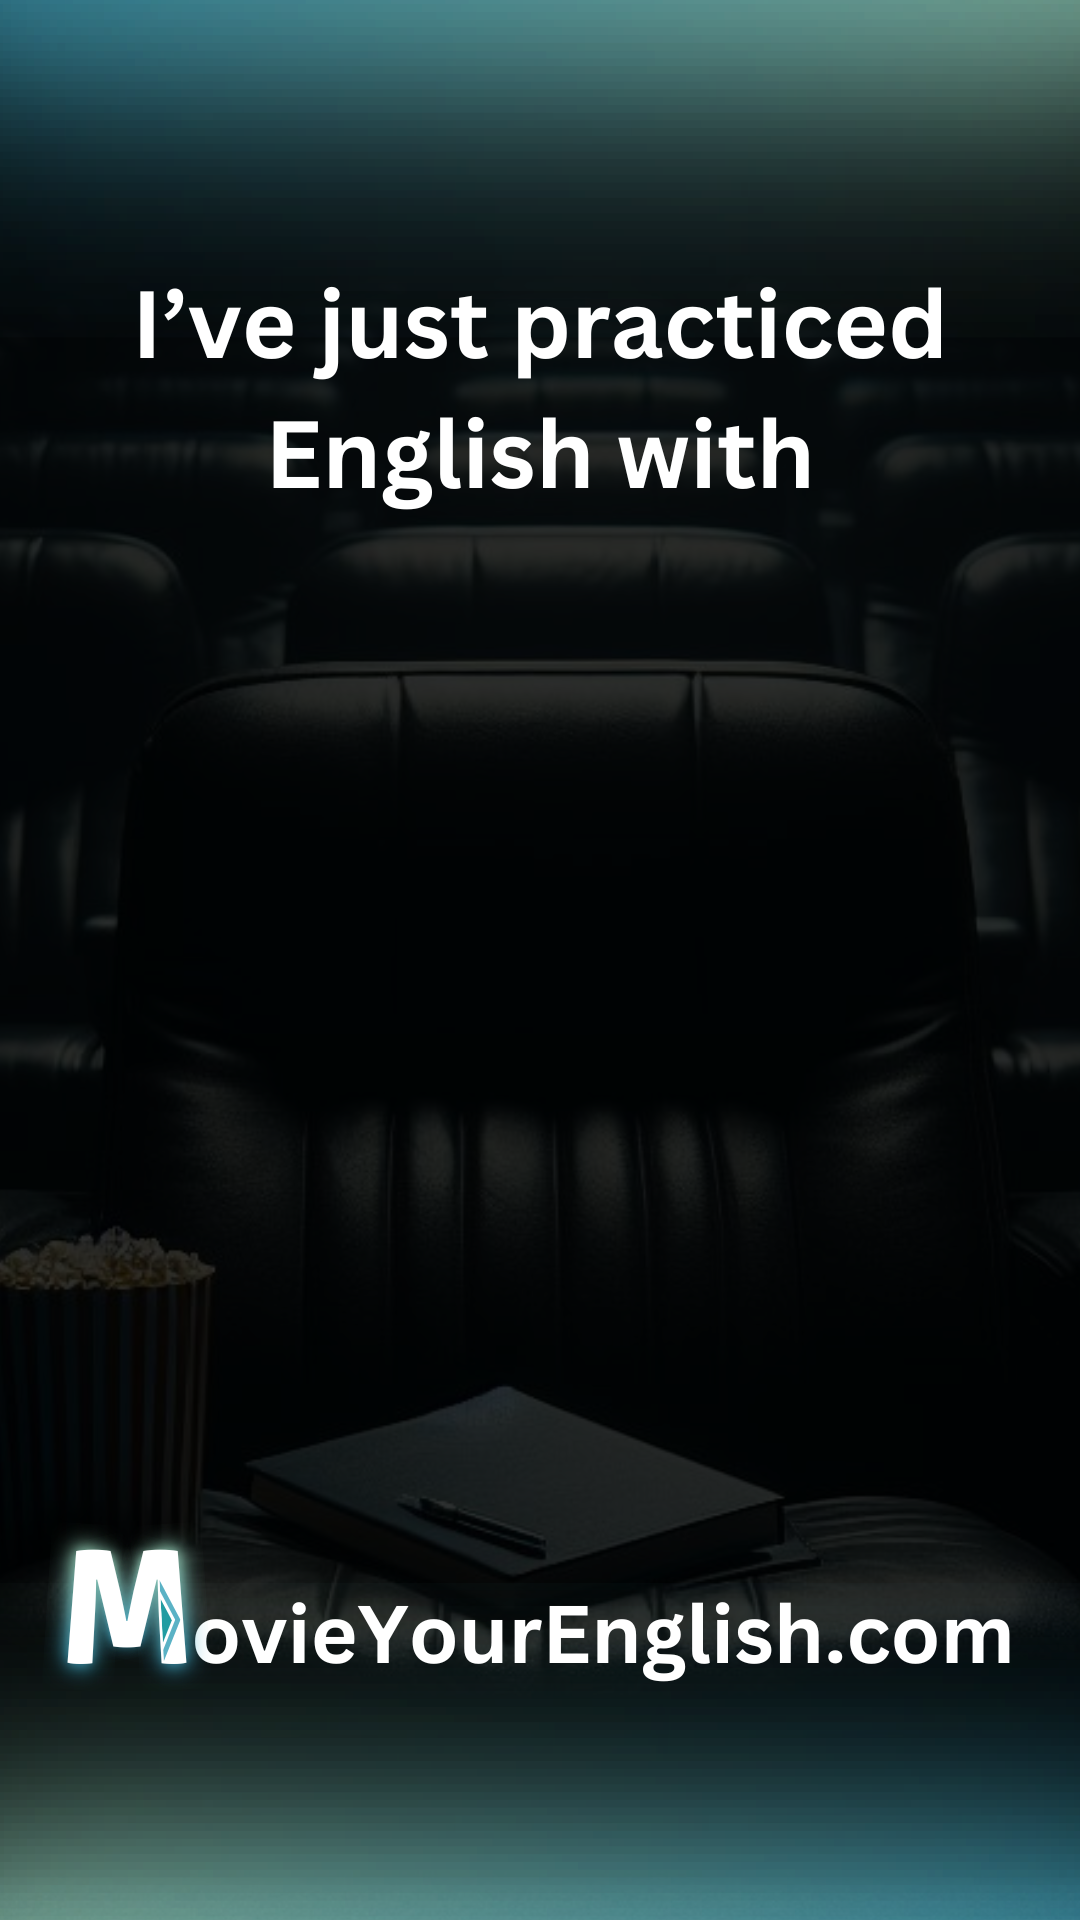
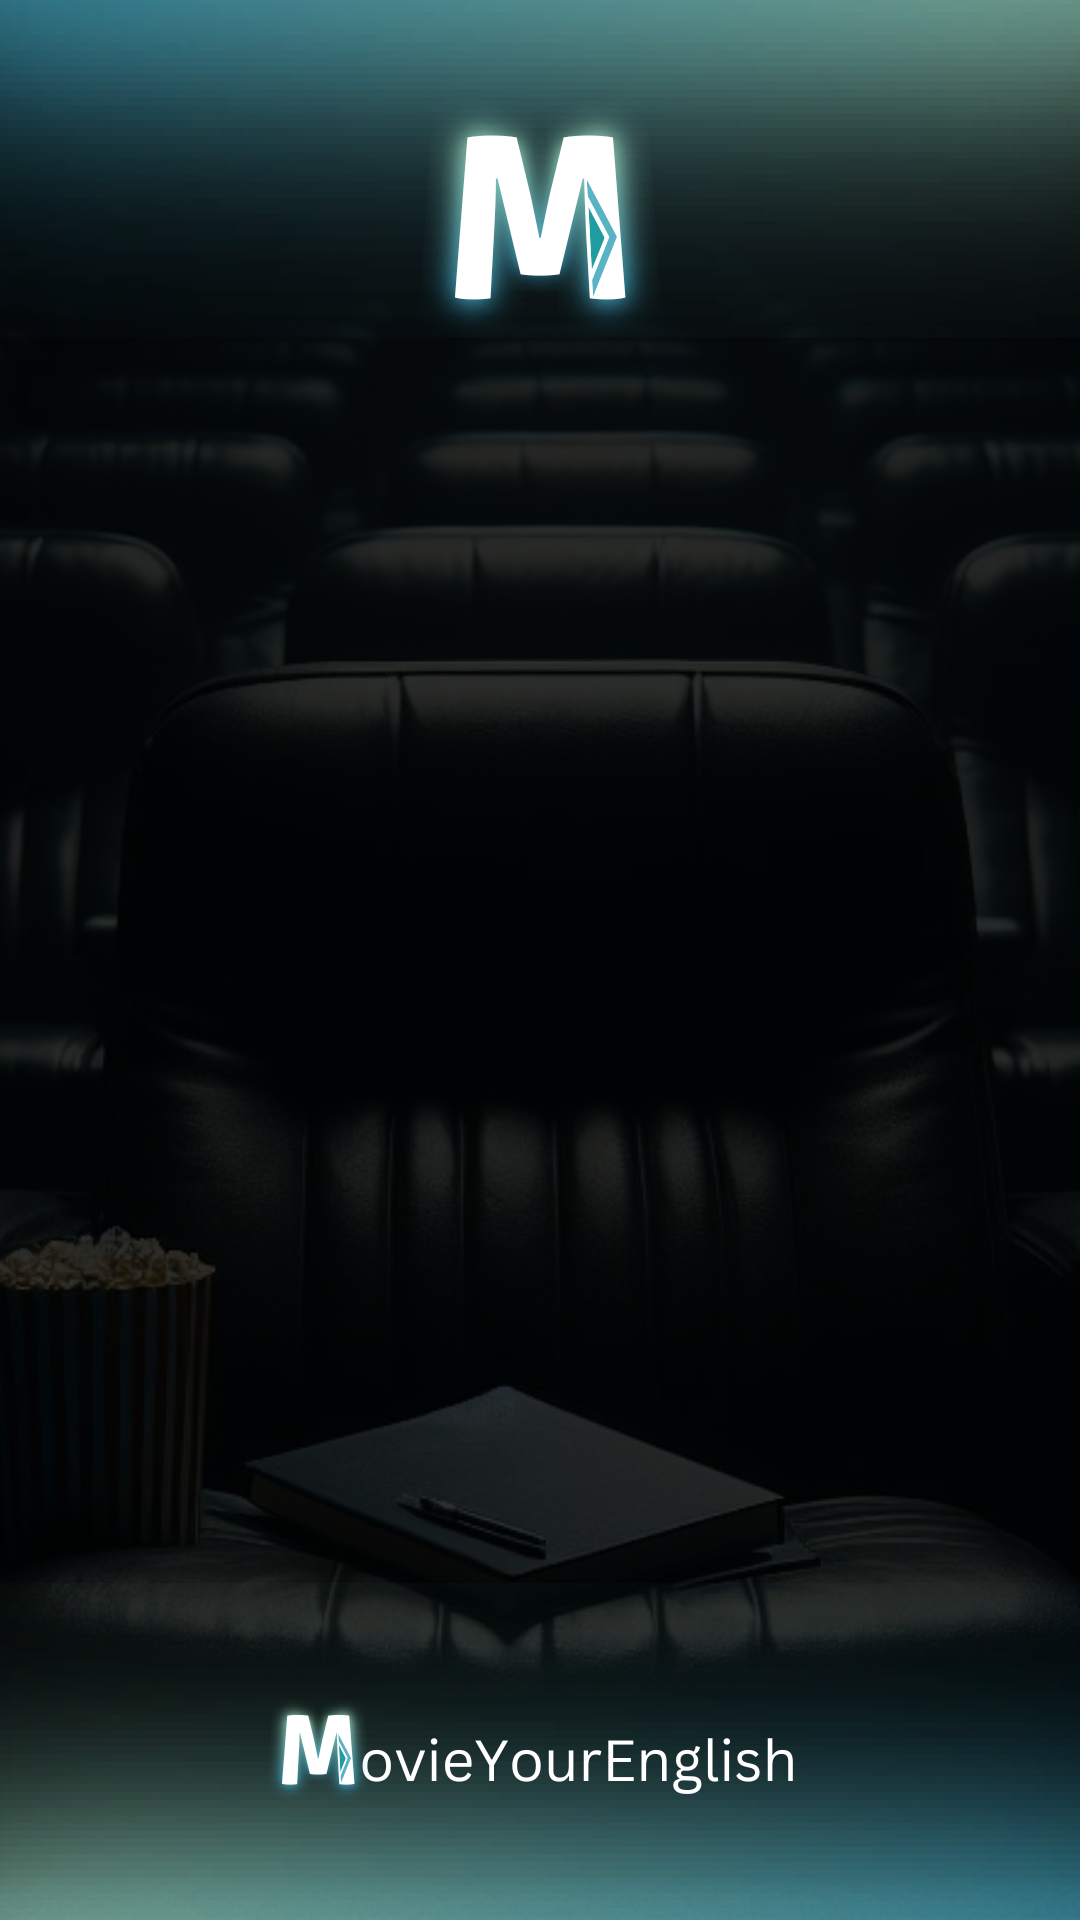
Update centered Instagram Story template

Changed region(s): [[0.0306, 0.7812, 0.9472, 0.9375], [0.1222, 0.0625, 0.8861, 0.2812], [0.5806, 0.2188, 0.7639, 0.2812]]

diff --git a/project-hail-mary/lesson.js b/project-hail-mary/lesson.js
@@ -297,10 +297,17 @@ document.querySelector("#share-story").addEventListener("click", async () => {
     const progress = getProgress();
     context.textAlign = "center";
     context.textBaseline = "middle";
-    const posterWidth = 390;
-    const posterHeight = 585;
+    context.font = "900 52px Arial, sans-serif";
+    context.fillStyle = "#ffffff";
+    context.shadowColor = "#000000";
+    context.shadowBlur = 15;
+    context.shadowOffsetY = 5;
+    drawCenteredText(context, "I’VE JUST PRACTICED ENGLISH WITH…", 505, 820, 66);
+
+    const posterWidth = 360;
+    const posterHeight = 540;
     const posterX = (canvas.width - posterWidth) / 2;
-    const posterY = 615;
+    const posterY = 700;
     context.fillStyle = "#ffffff";
     context.fillRect(posterX - 11, posterY - 11, posterWidth + 22, posterHeight + 22);
     context.drawImage(poster, posterX, posterY, posterWidth, posterHeight);
@@ -308,16 +315,16 @@ document.querySelector("#share-story").addEventListener("click", async () => {
     context.lineWidth = 7;
     context.strokeRect(posterX - 7, posterY - 7, posterWidth + 14, posterHeight + 14);
     context.fillStyle = "rgba(0, 0, 0, 0.78)";
-    context.fillRect(150, 1265, 780, 92);
+    context.fillRect(150, 1320, 780, 92);
     context.strokeStyle = "#16b9b4";
     context.lineWidth = 3;
-    context.strokeRect(150, 1265, 780, 92);
+    context.strokeRect(150, 1320, 780, 92);
     context.font = "800 33px Arial, sans-serif";
     context.fillStyle = "#ffffff";
     context.shadowColor = "#000000";
     context.shadowBlur = 12;
     context.shadowOffsetY = 4;
-    drawCenteredText(context, `I completed ${progress.completed} of ${progress.total} activities!`, 1311, 730, 44);
+    drawCenteredText(context, `I completed ${progress.completed} of ${progress.total} activities!`, 1366, 730, 44);
     context.shadowColor = "transparent";
     const blob = await new Promise((resolve) => canvas.toBlob(resolve, "image/png"));
     if (!blob) throw new Error("Story image could not be created");
